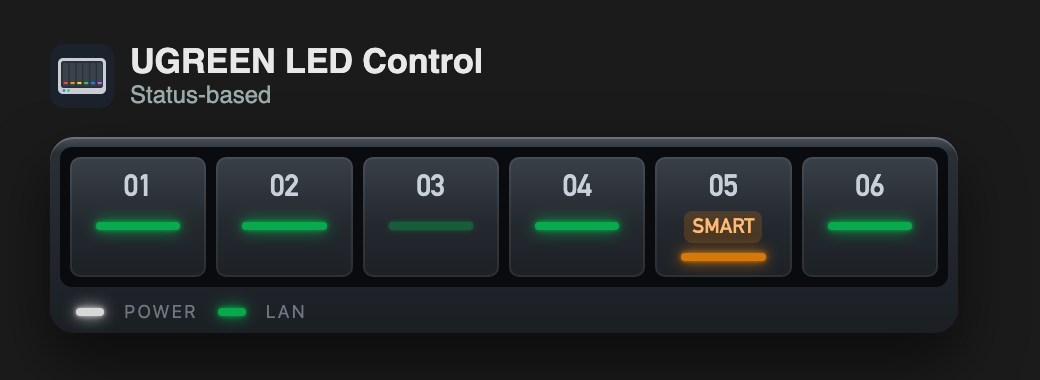
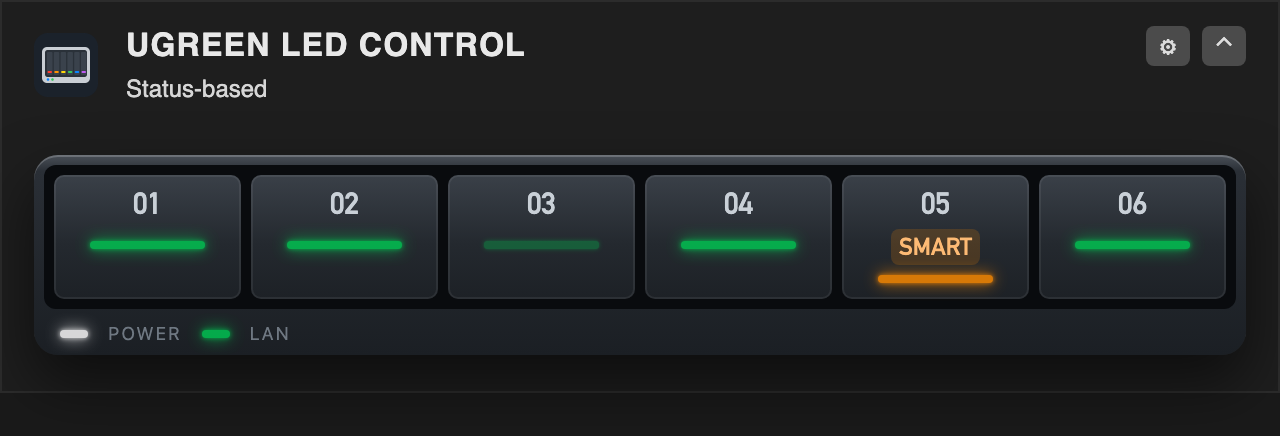
docs: dashboard tile screenshots in both sizes

Changed region(s): [[0.0, 0.3474, 0.9846, 0.8684], [0.0308, 0.0579, 0.4615, 0.2895], [0.8923, 0.0579, 0.9846, 0.1737]]

diff --git a/README.md b/README.md
@@ -18,10 +18,16 @@ LED control for UGREEN DX/DXP NAS devices on Unraid 7: colour, brightness and ef
 
 ![Drives](docs/screenshots/drives.png)
 
+Dashboard tile, compact (the default) and with temperatures (Settings → System → Appearance → Dashboard tile):
+
 <p>
-  <img src="docs/screenshots/dashboard-tile.png" alt="Dashboard tile" width="48%">
-  <img src="docs/screenshots/overview-light.png" alt="Light colour scheme" width="48%">
+  <img src="docs/screenshots/dashboard-tile.png" alt="Compact dashboard tile" width="49%">
+  <img src="docs/screenshots/dashboard-tile-full.png" alt="Dashboard tile with temperatures" width="49%">
 </p>
+
+The light colour scheme (System → Appearance → Colour scheme):
+
+![Light colour scheme](docs/screenshots/overview-light.png)
 
 The screenshots show the interface with sample data of a DXP6800 Pro.
 
